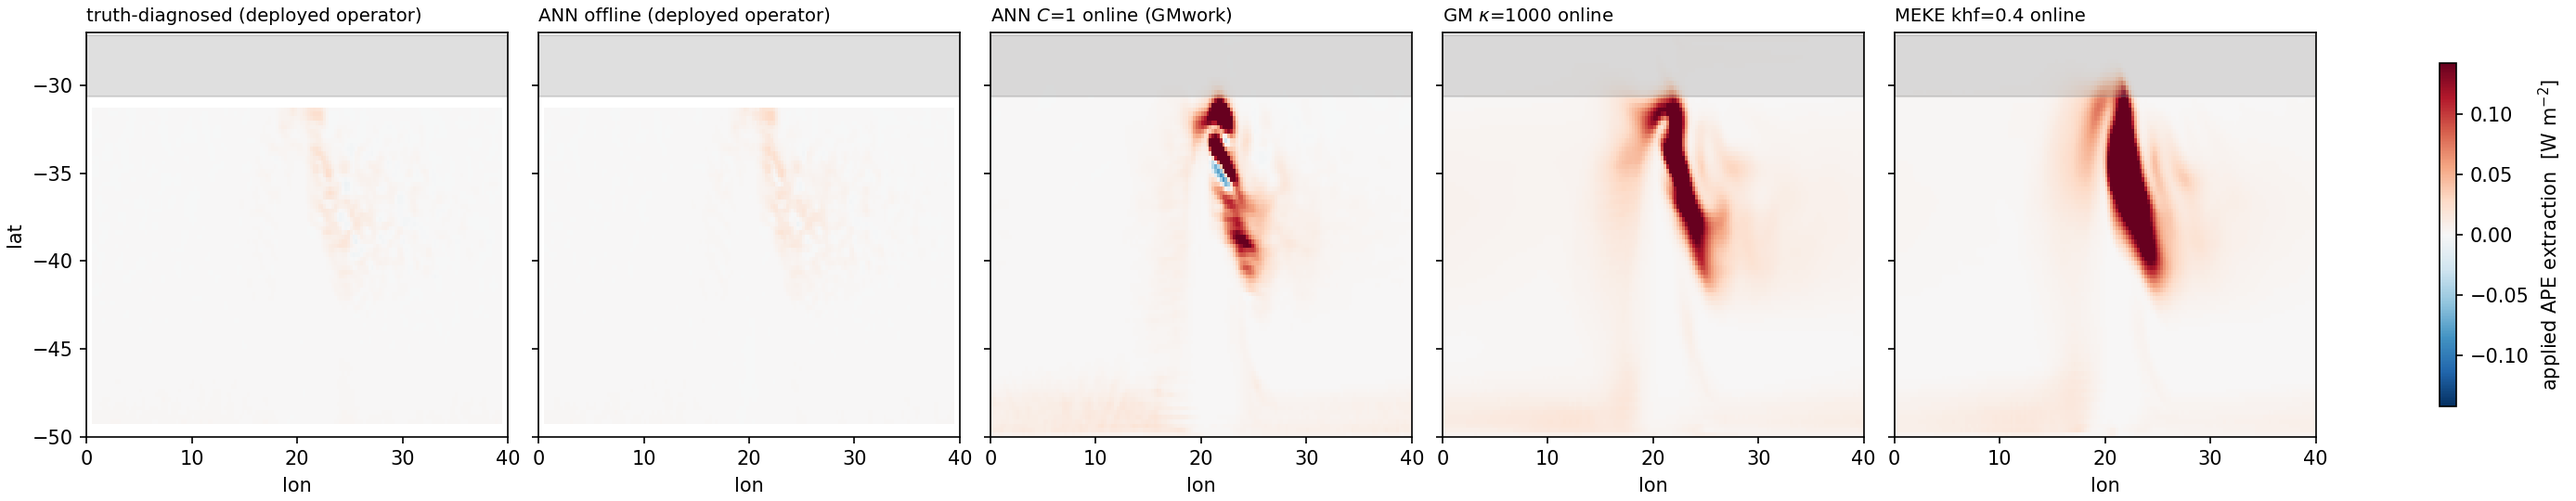
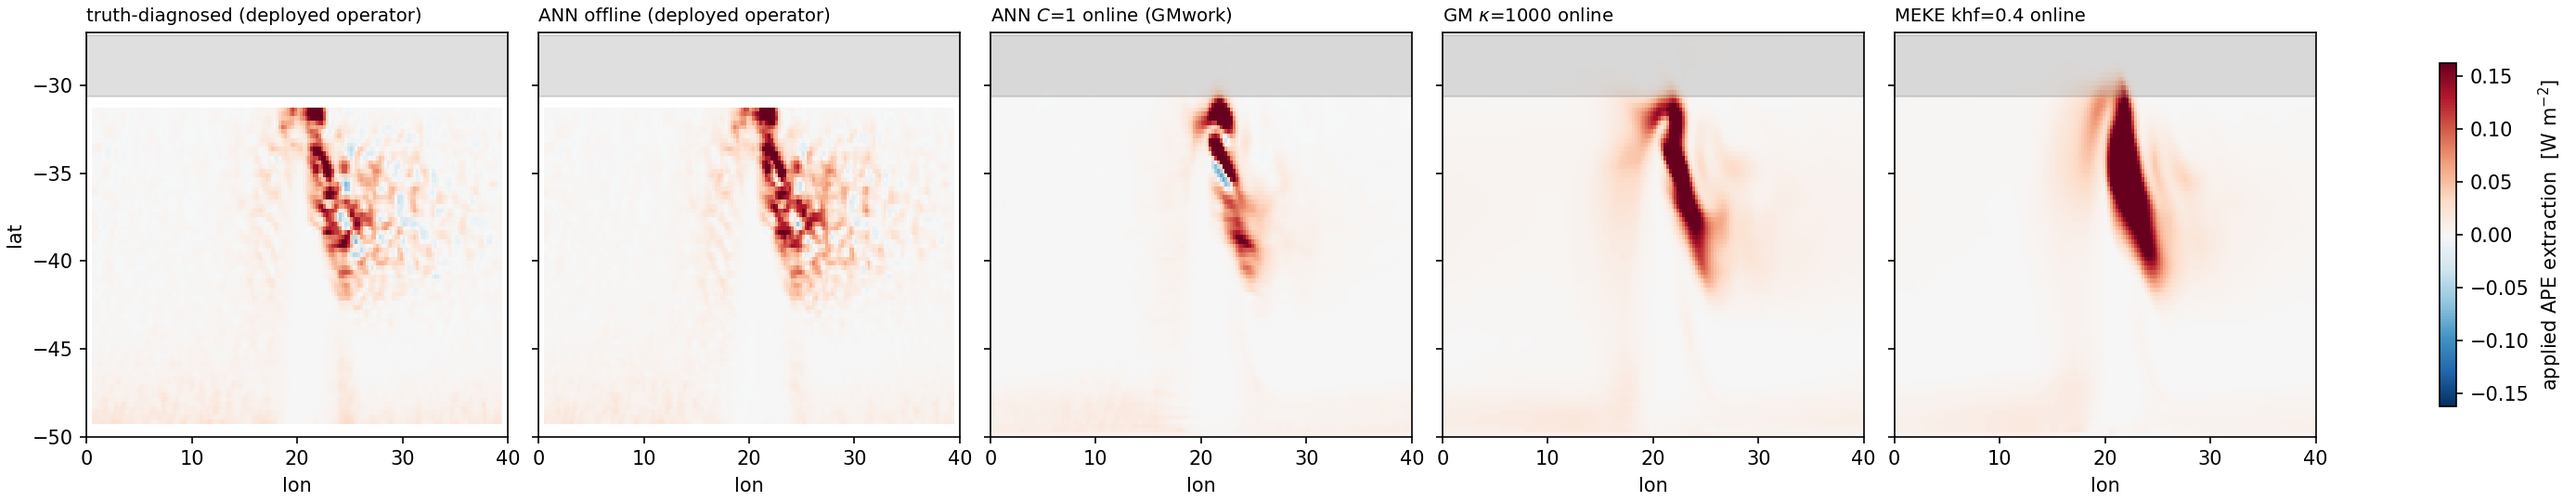
Correction: online/diag applied-release ratio is 0.78, not 7.6 -- the gap was a missing g factor (Dhruv's catch)
Task B stores a = Ups.grad_rho.dz without the g factor (its own ratios are unit-free and stand);
the V2 comparison set that against GMwork's true W/m2. 7.643/9.8 = 0.780. What remains after the
fix is a ~20% shortfall that coherently bundles the attractor difference, the mass limiter (acting
online, absent offline), and discrete-vs-continuum accounting. The GW ladder and remit numbers were
pure GMwork/transport and are unaffected.

Claude-Session: https://claude.ai/code/session_013YxY5kSiCrM21jUwV4Z6dE

diff --git a/src/training-on-CM2.6/scripts/channel_gmwork_analysis.py b/src/training-on-CM2.6/scripts/channel_gmwork_analysis.py
@@ -56,8 +56,12 @@ tb = xr.open_dataset(TB, decode_times=False)
 # Task B stores depth-integrated release maps directly: ape_diag (truth), ape_pred (offline ANN),
 # ape_gm (offline GM analogue), all (yh, xh) on the factor-4 coarse grid + a wet mask.
 msk = tb["mask2d"].values > 0.5
-a_diag = np.where(msk, tb["ape_diag"].values, np.nan)
-a_pred = np.where(msk, tb["ape_pred"].values, np.nan)
+# UNITS (caught by Dhruv 2026-08-07): Task B stores a = Ups.grad_rho.dz WITHOUT the g factor
+# (its own pred/diag ratios are unit-free so the file is internally consistent) => multiply by
+# g to get W/m2, like-for-like with GMwork. The first-pass "7.6x online/diag" was ~g in disguise.
+G_EARTH = 9.8
+a_diag = np.where(msk, G_EARTH * tb["ape_diag"].values, np.nan)
+a_pred = np.where(msk, G_EARTH * tb["ape_pred"].values, np.nan)
 w_ann = data["ANN p25"]["GMwork"].mean("Time").values
 ylat = data["ANN p25"]["yh"].values
 k2 = ylat < SPONGE_LAT

diff --git a/PLAN.md b/PLAN.md
@@ -330,3 +330,4 @@ Using the M1 inventory, reduce the analysis sprawl to a canonical story.
 - **2026-08-07 (cont 5) — GM column added to the channel deployed-release comparison (Dhruv's ask).** Constant-κ GM with κ fitted by volume-weighted LS on the DIAGNOSED flux over the full domain — the same loss the ANN trains on, 1 parameter vs 10⁵; linearity of Υ→FGNV→a in the flux means unit-κ accumulation × κ* at the end (single pass, exact). **Results (35 snaps, ¼°):** κ* = **250 m²/s — BELOW the entire online sweep bracket (500–2000)**, consistent with (i) CM2.6's "only ~¼ of the flux is downgradient" κ_eff result and (ii) §4.1's finding that κ=500–1000 moves the overturning AWAY from truth. Total-release ratios: ANN 1.147, GM(κ*) 0.973 — but GM's ≈1 is quasi-forced (the fit numerator IS the downgradient projection ≈ the release integral); the honest comparison is pattern. **Pattern corr of the ∫a dz map with diagnosed: ANN 0.965 vs GM 0.783** — GM at its optimum smears the release into a broad diffuse band weighted toward the large-gradient region, missing the meander-band fine structure the ANN reproduces. **Zonal-mean section corrs: ANN 0.986 vs GM 0.961 — zonal averaging washes out exactly what GM misses ⇒ zonal-mean overturning diagnostics will NOT discriminate GM from the ANN online; the horizontal release map will.** (Metric-design implication for the Task-A analysis and §4.1.) MEKE deliberately has no offline column (prognostic energy has no offline state; its online vertex comes from Task A's GMwork run). This is the "(C) non-downgradient structure" axis of the §4 plan, now with a picture. Scripts committed f4b082b; same output nc (now with ape_gm/sect_*_gm, kappa_star attrs).
 - **2026-08-07 (cont 6) — instantaneous vs time-mean skill ladder, ANN vs fitted GM (channel ¼°, full 35-snap record).** Pooled-instantaneous (3D volume-weighted): **flux corr ANN 0.957 (R² 0.916) vs GM(κ*) 0.093 (R² 0.009)** — a domain-fitted GM is essentially uncorrelated with the instantaneous eddy flux (<1% variance), the channel restatement of CM2.6's ~¼-downgradient result and Part 1's finding; **release corr ANN 0.933 vs GM 0.371**; time-mean map corr (cont 5) ANN 0.965 vs GM 0.783. The GM ladder 0.09→0.37→0.78 quantifies "GM gets the climatology only because the release projection and the time average forgive its errors"; the ANN holds 0.93–0.97 at every rung. ANN flux R² 0.916 independently cross-checks CHANNEL_OFFLINE_SI (~0.90) through a separate code path. Offline fingerprint of the EKE-preservation contrast: GM's withdrawal is right on average, wrong per event/location — candidate framing for §4.1/Discussion. Attrs in the same output nc.
 - **2026-08-07 (cont 6) — TASK A COMPLETE: all five GMwork continuations ran clean; validations + deliverables produced** (`scripts/channel_gmwork_analysis.py`, fig `channel_applied_release.png`). All runs reached target (ANN ladder → day 20000, GM/MEKE → 18000), 20×100-day records each. **V1 PASS, decisively:** GM kh1000's GMwork is strictly single-signed (positive part exactly 0) ⇒ **convention: GMwork < 0 = APE extraction**, applied throughout. **V2 PASS on pattern, CAVEAT on amplitude:** ANN ¼° online GMwork vs Task B's truth-diagnosed deployed release: **pattern r = 0.720** (both concentrate in the jet band downstream of the seamount, lon 20–30) — the offline deployed-release map does predict where the scheme acts in situ. BUT the integral ratio online/diag = **7.6** — far above Task B's offline ANN/diag = 1.147. Candidate explanations, NOT yet adjudicated (theory-Claude should weigh in before this goes near the paper): (i) attractor difference — GMwork is the work done on the run's OWN (steeper) state, the exact "applied-vs-diagnosed conflates scheme error with mean-state drift" caveat the task entry carries; (ii) Task B is snapshot-sampled (35) vs GMwork every-timestep; (iii) a_tap (tapered release density) vs GMwork (full work by the applied transport incl. FGNV redistribution) are not definitionally identical. **(b) Applied-extraction ladder (sponge-masked):** ANN **51.5 / 49.2 / 50.8 GW** at ¼/½/1° — near-constant across resolution (the scheme applies the same total work as the grid changes — worth connecting to the scale-awareness story); GM kh1000 **90.4 GW**, MEKE khf0.4 **102.9 GW** — the diffusive closures do ~2× the ANN's work, consistent with §4.1's over-flattening. **(c) Online remit (Sum|GM_sfn|/Sum|GM_sfn_unlim|, x-component):** ANN **0.119 (¼°) / 0.252 (½°) / 0.427 (1°)** — the machinery passes MORE of the request as the grid coarsens; ¼° value ~0.12 sits close to the offline deployed-release remit (~0.10–0.15), a nice cross-check though the quantities differ (transport vs energy). GM/MEKE sum-ratios (0.009) are NOT comparable — dominated by unbounded κ·s requests near outcrops (medians 0.34/0.17 are the meaningful stat there). **Figure note:** shared colour scale drowns the two faint diagnosed panels (online amplitudes dominate) — needs per-family scaling or SymLog before paper use.
+- **2026-08-07 (cont 7) — CORRECTION (Dhruv's catch): the "7.6× online/diag" was a UNIT SLIP; the true ratio is 0.78.** Dhruv asked whether the gap could come from how GMwork is defined and whether the offline number was computed true-to-MOM6. Two-part answer: **(1) Unit slip, the dominant effect:** Task B's `diag_channel_release.py` defines `G=9.8` but never applies it — the stored `ape_*` maps are `Υ·∇ₕρ·dz`, i.e. W/m² **divided by g** (its own pred/diag ratios are unit-free, so Task B's published 1.147 is unaffected). My V2 compared raw maps against GMwork's true W/m²: 7.643/9.8 = **0.780**. Analysis fixed (`channel_gmwork_analysis.py` now applies g; figure regenerated — the diagnosed panels are no longer artificially faint). **(2) Definitional differences that REMAIN, now at the ~20% level rather than 7×:** MOM6's GMwork is its own discrete PE budget (`Work_u += G·(uhtot·drdkDe_u − uhD·drdi_u·ē)` — a Ψ·Δ(Δρ·e) form on the run's OWN state, every timestep, post-mass-limit), whereas a_tap is the continuum identity Υ_tap·∇ₕρ on the FILTERED-TRUTH state, snapshot-sampled, without the mass limiter — so 0.78 bundles (attractor difference) × (mass-limit reduction) × (discrete-vs-continuum + boundary terms, the SI-Text-S4 class). **Corrected story:** the online scheme extracts ~0.78× the truth-diagnosed deployed release (and ~0.68× the offline ANN prediction of 1.147×), i.e. **slightly under rather than 7× over** — coherent with the mass limiter acting online but absent offline. V1, the GW ladder, and the remit numbers are unaffected (pure GMwork / pure transport). Lesson recorded: Task B's ape_* variables have no units attribute — added to the caveats; any future consumer must apply g.
